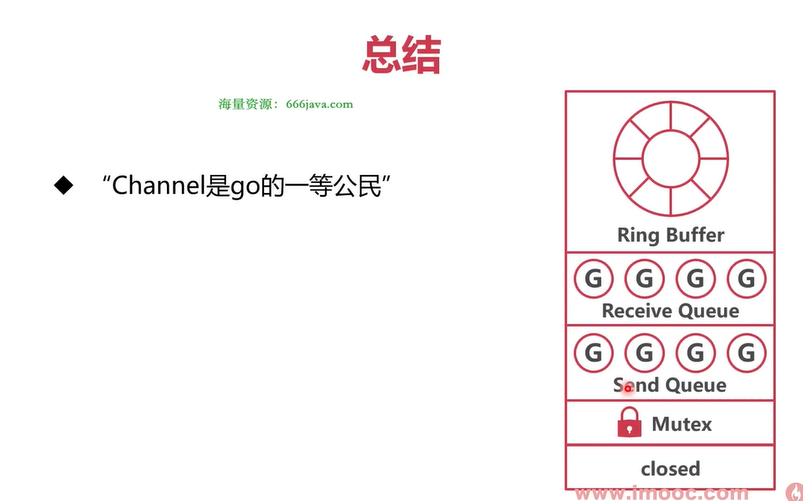
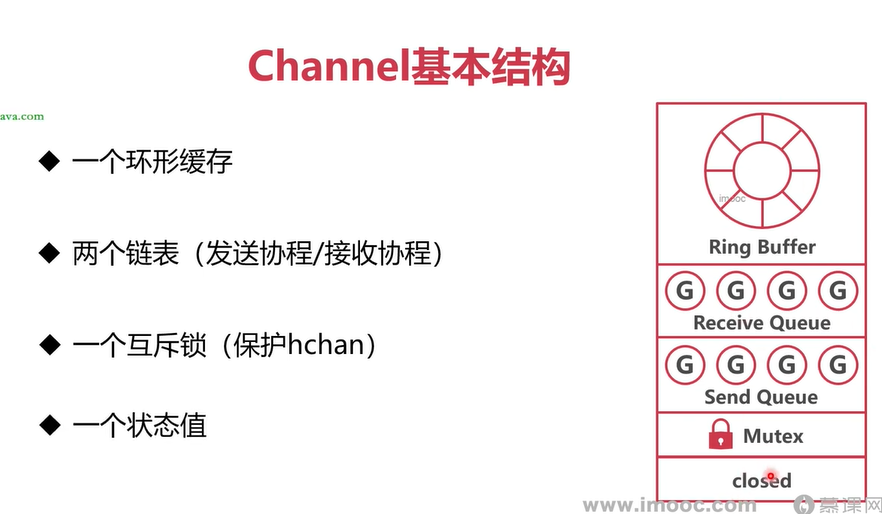
channel

diff --git a/02_advanced/channel/main3/main.go b/02_advanced/channel/main3/main.go
@@ -1,0 +1,48 @@
+package main
+
+import (
+	"fmt"
+	"time"
+)
+
+// 向 channel 中写入
+func test1(channel *chan int){
+	*channel <- 1
+}
+
+// 从 channel 中读取
+func test2(channel *chan int){
+	result := <- *channel
+	fmt.Println("result = ", result)
+}
+
+func main() {
+	channel1 := make(chan int, 5)
+	channel2 := make(chan int)
+
+	go test1(&channel1)				// 向 channel1 中写入数据
+	go test2(&channel2)				// 从 channel2 中读取数据
+
+	// select 结合 default 分支，可以实现非阻塞的读写
+	// 注意：当有多个 case 同时可以执行时，Go runtime 会随机选择一个执行
+
+	// 即如果没有 channel 可操作就执行 default，而不会阻塞当前 goroutine。
+	select {
+	// 如果channel1成功读取到数据，就会进入这个case
+	// 此时 channel1 为空缓冲，无法读取，如果没有select，那么就会阻塞等待
+	case <- channel1:
+		fmt.Println("in channel1")
+
+	// 如果往channel2中成功写入数据，就会进入这个case
+	// 此时 channel2 是无缓冲，没有接收者，无法写入。如果没有 select，那么就会阻塞等待
+	case channel2 <- 1:
+		fmt.Println("in channel2")
+
+	default:
+		fmt.Println("in default")
+	}
+
+	fmt.Println("in main")
+
+	time.Sleep(2 * time.Second)
+}

diff --git a/02_advanced/lock/main3/main.go b/02_advanced/lock/main3/main.go
@@ -1,0 +1,51 @@
+package main
+
+import (
+	"fmt"
+	"sync"
+)
+
+type Person struct {
+	mutex sync.RWMutex
+	salary uint
+	level uint
+}
+
+func (person *Person) promote(waitGroup *sync.WaitGroup) {
+	person.mutex.Lock()
+	defer person.mutex.Unlock()
+
+	person.salary += 1000
+	person.level += 1
+
+	waitGroup.Done()
+}
+
+func (person *Person) print(waitGroup *sync.WaitGroup) { 
+	person.mutex.RLock()
+	defer person.mutex.RUnlock()
+
+	fmt.Println("salary = ", person.salary, ", level = ", person.level)
+
+	waitGroup.Done()
+}
+
+func main() {
+	person := Person{
+		salary: 100000,
+		level: 10,
+	}
+
+	waitGroup := sync.WaitGroup{}
+
+	waitGroup.Add(6)
+	go person.promote(&waitGroup)
+	go person.promote(&waitGroup)
+	go person.promote(&waitGroup)
+
+	go person.print(&waitGroup)
+	go person.print(&waitGroup)
+	go person.print(&waitGroup)
+
+	waitGroup.Wait()
+}

diff --git a/02_advanced/lock/main2/main.go b/02_advanced/lock/main2/main.go
@@ -9,7 +9,7 @@ type Person struct {
 }
 
 // 修改的时候加上互斥锁，保证修改的时候只有一个协程操作数据
-// 写锁是互斥锁
+// 写锁是互斥锁，一旦加上了写锁，其他协程就不能加写锁或者读锁了
 func (person *Person) promote() {
 	person.mutex.Lock()
 	defer person.mutex.Unlock()
@@ -19,7 +19,7 @@ func (person *Person) promote() {
 }
 
 // 并发的读取数据，但是写操作需要被阻止
-// 读锁是共享锁
+// 读锁是共享锁，当加上了读锁之后，其他协程可以继续加读锁，但是不能加写锁
 func (person *Person) print(){
 
 }

diff --git a/02_advanced/lock/main4/main.go b/02_advanced/lock/main4/main.go
@@ -1,0 +1,29 @@
+package main
+
+import (
+	"fmt"
+	"sync"
+)
+
+func test(pointer *int) {
+	*pointer += 1
+}
+
+func main() {
+	num := 0
+	once := sync.Once{}
+	waitGroup := sync.WaitGroup{}
+
+	waitGroup.Add(3)
+
+	for i := 0; i < 3; i++ {
+		go func(){
+			defer waitGroup.Done()
+			once.Do(func() {test(&num)})
+		}()
+	}
+
+	waitGroup.Wait()
+
+	fmt.Println("num = ", num)
+}

diff --git a/02_advanced/lock/notes.md b/02_advanced/lock/notes.md
@@ -66,3 +66,78 @@ uint32 == 0
 
 锁竞争严重时，互斥锁进入饥饿模式。饥饿模式没有自旋等待，不会存在空转消耗性能的情况
 同时，从sema队列中取出的协程直接获取锁，有利于公平，防止出现某个协程一直获取不到锁的情况
+
+
+### 读写锁 sync.RWMutex
+
+
+#### 总结
+- 用 Mutex 实现写协程之间的互斥等待
+- 读协程使用readerSem等待写锁的释放，也就是说如果已经加了写锁，那么读协程就会被放到readerSem里面等待
+- 写协程使用writerSem等待读锁的释放，也就是说如果已经加了读锁，那么写协程就会被放到writerSem里面等待
+- readerCount记录读协程的个数
+- readerWait记录写协程前面的读协程的个数
+
+- 如果是读多写少的场景，使用 读写锁RWMutex 能提高性能
+- 如果是写多读少的场景，那么直接使用 互斥锁Mutex
+
+
+### WaitGroup
+
+![alt text](images/demo_03_01.png)
+![alt text](images/demo_03_02.png)
+1. counter（计数器）
+- 记录还有多少个任务没完成。
+- Add(n) 会增加，Done() 会减少。
+- 当 counter == 0 时，表示所有任务完成。
+
+2. waiter count（等待者个数）
+- 记录有多少个 goroutine 调用了 Wait()，也就是有多少个“等候的人”。
+- 如果有多个 goroutine 调用了 Wait()，当计数器归零时，它们都要被唤醒。
+
+3. sema（信号量）
+- 把等的人挂起，等 counter 归零时把他们叫醒。，也就是真正用来挂起/唤醒等待的 goroutine。
+
+```go
+func () test(waitGroup *sync.WaitGroup) {
+	waitGroup.Done()
+}
+
+func main() {
+
+	waitGroup := sync.WaitGroup{}
+
+	waitGroup.Add(3)
+	go test()
+    go test()
+    go test()
+
+	waitGroup.Wait()                    // main goroutine 就会被 阻塞，挂在 WaitGroup 内部的 sema 上，进入“等待模式”
+}
+```
+分析：
+当 main 执行到 waitGroup.Wait() 时，发现计数器（counter）还没归零（初始值 3）。
+这时候，main goroutine 就会被 阻塞，挂在 WaitGroup 内部的 sema 上，进入“等待模式”。
+等到 3 个 Done() 调用完毕，counter 变成 0，runtime 就会通过 runtime_Semrelease 把阻塞在 sema 上的 main goroutine 唤醒，它才会继续往下执行（退出程序）。
+
+
+![alt text](images/demo_03_03.png)
+![alt text](images/demo_03_04.png)
+![alt text](images/demo_03_05.png)
+
+
+
+#### 总结
+- WaitGroup 实现了一组协程等待另外一组协程
+- 等待的协程（ 也就是调用了 waitGroup.Wait() 的协程 ）被放入Sema等待队列，并且记录等待的个数counter
+- 当等待协程计数counter归零的时候，调度器会唤醒所有在sema中等待的协程
+
+
+### sync.Once
+- sync.Once实现了一段代码只执行一次
+- 使用标志位 + mutex实现了并发冲突的优化
+
+- 先判断标志位是否已经改值
+- 如果还有更改，尝试获取锁
+- 获取到锁的协程执行业务，改标志位的值，然后解锁
+- 由于要求代码只需要执行一次，因此当等待的协程被唤醒，然后直接返回

diff --git a/02_advanced/channel/notes.md b/02_advanced/channel/notes.md
@@ -18,6 +18,84 @@
 
 ### Channel 数据结构
 ![alt text](images/demo_03_01.png)
+设计思路：
+- 需要有一个缓冲区，用来存放已发送的数据
+- 需要一个发送等待队列，如果是无缓冲通道或者有缓冲通道但是缓冲区满了之后，发送的协程需要被挂起
+- 需要一个接收等待队列，如果是无缓冲通道或者有缓冲通道但是缓冲区没有数据的时候，接收协程需要被挂起
+
+```go
+type hchan struct {
+	qcount   uint           // total data in the queue
+	dataqsiz uint           // size of the circular queue
+	buf      unsafe.Pointer // points to an array of dataqsiz elements
+	elemsize uint16
+	synctest bool // true if created in a synctest bubble
+	timer    *timer // timer feeding this chan
+	elemtype *_type // element type
+
+    closed   uint32     // 0表示开启，1表示关闭
+
+	recvx    uint   // receive index
+	recvq    waitq  // list of recv waiters     接收队列
+
+    sendx    uint   // send index
+	sendq    waitq  // list of send waiters     发送队列
+
+	lock mutex
+}
+```
+
 ![alt text](images/demo_03_02.png)
+
 ![alt text](images/demo_03_03.png)
+
 ![alt text](images/demo_03_04.png)
+
+总的来说，channel的数据结构如下：
+![alt text](images/demo_03_05.png)
+
+### Channel 发送数据
+发送数据的三种情况：
+1. 直接发送
+    说明此时缓冲区没有数据，并且接收队列中有协程在等待
+    直接把数据发送给正在等待的协程即可
+2. 放入缓存
+    说明此时接收队列中没有协程在等待，并且缓冲区还有位置
+    直接把数据放到缓存区
+3. 休眠等待
+    说明此时接收队列中没有协程在等待，并且缓冲区已经满了或者没有缓冲区
+    就把这个发送的协程放入发送队列中等待
+
+![alt text](images/demo_03_06.png)
+![alt text](images/demo_03_07.png)
+![alt text](images/demo_03_08.png)
+
+总结
+![alt text](images/demo_03_09.png)
+
+### Channel 接收数据
+接收数据有四种情况：
+1. 有等待发送的协程，直接从发送协程中获取
+    说明这个Channel没有缓存区，并且发送队列中有协程在等待了
+    直接从等待协程中获取数据
+2. 有等待发送的协程，直接缓存中获取
+    说明这个Channel缓存区已经满了，并且发送队列中有协程在等待了
+    直接从缓存区中取走一个数据，并且把位于发送等待队列中休眠的协程唤醒
+3. 从缓存中接收
+    说明此时Channel的缓存区中有数据，并且发送队列中没有协程在等待
+    直接从缓存区中取走数据即可
+4. 休眠等待
+    说明此时缓存区中没有数据或者没有这个Channel本身就没有缓冲区，并且发送队列中没有等待的协程
+    把这个放入接收队列中进行休眠等待
+
+![alt text](images/demo_03_10.png)
+![alt text](images/demo_03_11.png)
+![alt text](images/demo_03_12.png)
+![alt text](images/demo_03_13.png)
+
+总结
+![alt text](images/demo_03_14.png)
+
+
+### 非阻塞的 Channel
+
